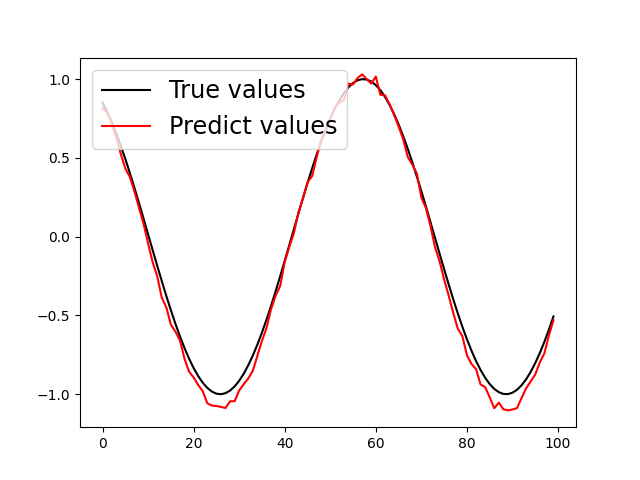
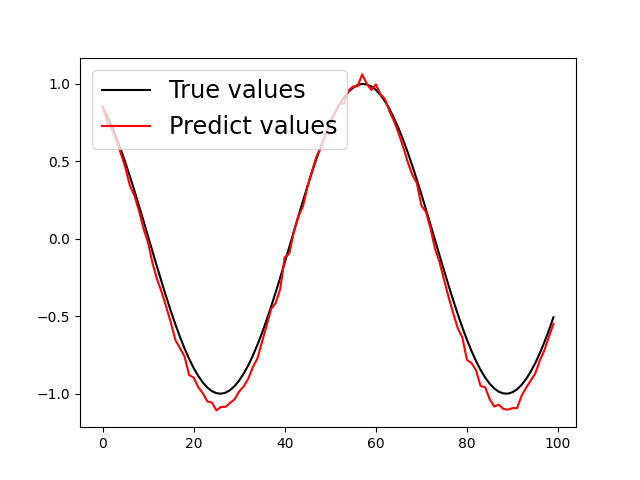
Update

diff --git a/smart_pred/model/neuralforecast_model.py b/smart_pred/model/neuralforecast_model.py
@@ -3,7 +3,7 @@ from sklearn.preprocessing import StandardScaler
 import pandas as pd
 
 from neuralforecast.models import RNN, GRU, LSTM, TCN, DeepAR, DilatedRNN, MLP, NHITS, NBEATS, NBEATSx
-from neuralforecast.models import TFT, VanillaTransformer, Informer, Autoformer, PatchTST, FEDformer, StemGNN, HINT, TimesNet
+from neuralforecast.models import TFT, VanillaTransformer, Informer, Autoformer, PatchTST, FEDformer, TimesNet
 from neuralforecast import NeuralForecast
 
 import matplotlib.pyplot as plt
@@ -64,19 +64,19 @@ class NeuralForecast_model(Basic_model):
         elif self.name == "TimesNet":
             self.model = TimesNet(input_size=seq_len, h=pred_len, max_steps=100)
         elif self.name == "RNN":
-            self.model = RNN(input_size=seq_len, h=pred_len)
+            self.model = RNN(input_size=seq_len, h=pred_len, max_steps=100)
         elif self.name == "GRU":
-            self.model = GRU(input_size=seq_len, h=pred_len)
+            self.model = GRU(input_size=seq_len, h=pred_len, max_steps=100)
         elif self.name == "LSTM":
-            self.model = LSTM(input_size=seq_len, h=pred_len)
+            self.model = LSTM(input_size=seq_len, h=pred_len, max_steps=100)
         elif self.name == "TCN":
-            self.model = TCN(input_size=seq_len, h=pred_len)
+            self.model = TCN(input_size=seq_len, h=pred_len, max_steps=100)
         elif self.name == "DeepAR":
-            self.model = DeepAR(input_size=seq_len, h=pred_len)
+            self.model = DeepAR(input_size=seq_len, h=pred_len, max_steps=100)
         elif self.name == "DilatedRNN":
-            self.model = DilatedRNN(input_size=seq_len, h=pred_len)
+            self.model = DilatedRNN(input_size=seq_len, h=pred_len, max_steps=100)
         elif self.name == "MLP":
-            self.model = MLP(input_size=seq_len, h=pred_len)
+            self.model = MLP(input_size=seq_len, h=pred_len, max_steps=100)
         else:
             raise Exception("模型名称错误！")
         # 可以添加更多模型的条件分支
@@ -138,10 +138,18 @@ def Test():
         # "NBEATSx",
         # "TFT",
         # "VanillaTransformer",
+        # "DeepAR",
         # "Informer",
         # "PatchTST",
-        "FEDformer",
-        "TimesNet",
+        # "Autoformer", # mps不能用
+        # "FEDformer",
+        # "TimesNet",
+        # "RNN",
+        # "GRU",
+        # "LSTM",
+        # "TCN",
+        # "DilatedRNN",
+        # "MLP",
     ]  # 您可以在此处添加其他模型名称
 
     i = 0
